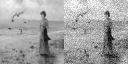
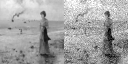
added phash gradient estimation, however is quite janky currently, needs tuning

Changed region(s): [[0.5, 0.0, 1.0, 1.0]]

diff --git a/src/phash_gradient.py b/src/phash_gradient.py
@@ -1,0 +1,223 @@
+import os
+import numpy as np
+from PIL import Image
+import pdqhash
+from image_utils import *
+
+PHASH_THRESHOLD = 35 # Represents hamming distance between PDQ hashes, change later
+NUM_ITERATIONS = 200 # Number of iterations our iterative algorithm works for
+EPS_MAX = 0.26 # Max L_inf allowed
+
+
+def project_linf(delta, eps):
+    """Project delta (HxW) onto L∞ ball with radius eps (elementwise clamp)."""
+    return np.clip(delta, -eps, eps)
+
+def project_l2(delta, eps):
+    """Project delta onto L2 ball of radius eps (global)."""
+    norm = np.linalg.norm(delta.ravel())
+    if norm <= eps or norm == 0:
+        return delta
+    return (delta / norm) * eps
+
+def best_candidate_from_random(x, delta_cum, num_candidates=200, per_pixel_eps=0.01, candidate_type='gauss'):
+    """
+    Generate candidates (small HxW perturbations), test pdq distance increase when added to current,
+    and return the best candidate (largest resulting PDQ distance).
+    - x: base small-grayscale image (HxW floats in [0,1])
+    - delta_cum: current cumulative perturbation (HxW floats, can be nonzero)
+    - returns (best_candidate, best_dist, best_sim, best_qorig, best_qpert)
+    """
+    H, W = x.shape
+    best = None
+    best_dist = -1
+    best_sim = None
+
+    base_perturbed = np.clip(x + delta_cum, 0.0, 1.0)  # current perturbed small image
+
+    for i in range(num_candidates):
+        if candidate_type == 'gauss':
+            cand = np.random.normal(0, per_pixel_eps, size=(H, W)).astype(np.float32)
+        elif candidate_type == 'signed':
+            cand = (np.random.choice([-1.0, 1.0], size=(H, W)) *
+                    np.random.rand(H, W) * per_pixel_eps).astype(np.float32)
+        elif candidate_type == 'sparse':
+            # small fraction of pixels changed
+            cand = np.zeros((H, W), dtype=np.float32)
+            mask = np.random.rand(H, W) < 0.01  # 1% pixels
+            cand[mask] = np.random.normal(0, per_pixel_eps, size=np.count_nonzero(mask))
+        else:
+            raise ValueError("unknown candidate_type")
+
+        # create trial cumulative perturbation and limit it (so candidates don't exceed global budget by themselves)
+        trial_delta = delta_cum + cand
+        trial_delta = project_linf(trial_delta, per_pixel_eps*5)  # optionally cap intermediate values
+        trial_delta = project_l2(trial_delta, per_pixel_eps*5)  # optionally cap intermediate values
+
+        # compute pdq distance between base_perturbed and base_perturbed + cand
+        # note: phash_distance_gray expects delta that when added to x produces perturbed image;
+        # here we want distance between (x + delta_cum) and (x + delta_cum + cand),
+        # so pass base_perturbed as reference by computing delta_rel = (delta_cum + cand) - delta_cum = cand
+        dist, sim = phash_distance_gray(base_perturbed, cand)
+
+        # choose the candidate that produced the largest PDQ distance
+        if dist > best_dist:
+            best_dist = dist
+            best = cand
+            best_sim = sim
+
+    return best, best_dist, best_sim
+def iterative_greedy_attack(orig_rgb, x_small, its=50, M=200, eps_step=0.005, eps_max=0.05, candidate_type='gauss', threshold=20):
+    """
+    Iteratively find and accumulate greedy perturbations in small grayscale space.
+    - orig_rgb: original full-res RGB float HxWx3
+    - x_small: small grayscale image Hs x Ws (float)
+    - its: number of iterations
+    - M: number of candidates per iteration
+    - eps_step: nominal candidate std/step (per-pixel)
+    - eps_max: max L_inf allowed for cumulative bar_delta
+    Returns cumulative bar_delta and history of PDQ distances.
+    """
+    Hs, Ws = x_small.shape
+    bar_delta = np.zeros_like(x_small, dtype=np.float32)  # cumulative small-space perturbation
+    history = []
+
+    # initial PDQ between x and x (should be 0)
+    dist0, sim0 = phash_distance_gray(x_small, np.zeros_like(x_small))
+    history.append((0, dist0, sim0))
+
+    for t in range(its):
+        # generate many small candidates and pick the one that increases PDQ most
+        best_cand, best_dist, best_sim = best_candidate_from_random(
+            x_small, bar_delta, num_candidates=M, per_pixel_eps=eps_step, candidate_type=candidate_type
+        )
+
+        # update cumulative perturbation (add best candidate)
+        bar_delta = bar_delta + best_cand
+
+        # project cumulative perturbation onto allowed L_inf ball so it stays imperceptible
+        bar_delta = project_linf(bar_delta, eps_max)
+
+        #l2_max = 0.3
+        # optionally also project L2 if you want:
+        #bar_delta = project_l2(bar_delta, l2_max)
+
+        # compute pdq distance between x and x + bar_delta (for logging)
+        dist_cum, sim_cum = phash_distance_gray(x_small, bar_delta)
+        history.append((t+1, dist_cum, sim_cum))
+
+        # debug/log
+        print(f"iter {t+1:3d}: best_candidate_dist={best_dist:3d} => cum_dist={dist_cum:3d} PDQsim={sim_cum:.3f}")
+
+        # stopping rule: if we exceed some PDQ distance threshold, break
+        if dist_cum >= threshold:   # example threshold, tune to your use-case
+            #print("Reached PDQ distance target; stopping early.")
+            break
+
+    # Produce final mapped RGB perturbation to apply to the original image
+    W_orig, H_orig = orig_rgb.shape[1], orig_rgb.shape[0]
+    delta_gray_resized = resize_float_delta(bar_delta, (W_orig, H_orig))
+    delta_rgb = inverse_delta_map(orig_rgb, delta_gray_resized)
+    perturbed_rgb = np.clip(orig_rgb + delta_rgb, 0.0, 1.0)
+
+    return bar_delta, delta_rgb, perturbed_rgb, history
+
+def process_image(path):
+    """
+    Modified process_image that runs the iterative greedy attack on the image at `path`.
+    Saves:
+      - images_out/{name}__orig_fullRGB.png          : original full-res RGB (for reference)
+      - images_out/{name}__pert_resized_RGB.png      : final perturbed full-res RGB (mapped from small attack)
+      - images_out/{name}__pert_smallstack.png       : side-by-side small grayscale original vs small perturbed
+      - images_out/{name}__bar_delta_small.png       : visualization of cumulative bar_delta (scaled for viewing)
+    Prints PDQ and metrics to console.
+    """
+    name = os.path.basename(path)
+    base, ext = os.path.splitext(name)
+    orig = Image.open(path).convert("RGB")
+    orig_size = orig.size  # (W, H)
+    orig_rgb = to_float(orig)  # HxWx3 floats
+
+    # small grayscale attack space
+    small_gray = orig.convert("L").resize(RESIZE_TO)
+    x = to_float(small_gray)  # Hs x Ws
+
+    # Attack configuration (tune these)
+    # Run iterative greedy attack
+    bar_delta, delta_rgb, perturbed_rgb, history = iterative_greedy_attack(
+        orig_rgb, x,
+        its=NUM_ITERATIONS,
+        M=200,
+        eps_step=0.005,
+        eps_max=EPS_MAX,
+        candidate_type='gauss',
+        threshold=PHASH_THRESHOLD
+    )
+
+    # Save outputs with clear filenames
+    os.makedirs(OUTPUT_DIR, exist_ok=True)
+    # original full-res (for quick reference)
+    orig_out = os.path.join(OUTPUT_DIR, f"{base}__orig_fullRGB.png")
+    Image.fromarray(to_uint8(orig_rgb)).save(orig_out)
+
+    # perturbed full-res RGB (mapped from bar_delta)
+    pert_resized_out = os.path.join(OUTPUT_DIR, f"{base}__pert_resized_RGB.png")
+    Image.fromarray(to_uint8(perturbed_rgb)).save(pert_resized_out)
+
+    # small stacked: original small grayscale vs (x + bar_delta) small grayscale
+    x_pert_small = np.clip(x + bar_delta, 0.0, 1.0)
+    stacked_small = np.hstack([x, x_pert_small])
+    stacked_small_u8 = to_uint8(stacked_small)
+    stacked_small_img = Image.fromarray(stacked_small_u8, mode="L")
+    stacked_small_out = os.path.join(OUTPUT_DIR, f"{base}__pert_smallstack.png")
+    stacked_small_img.save(stacked_small_out)
+
+    # save a visualization of bar_delta (scale to [0,1] for viewing)
+    # We'll map bar_delta (which can be negative) to a viewable grayscale: (bar_delta - min) / (max - min)
+    bd = bar_delta
+    bd_min, bd_max = float(np.min(bd)), float(np.max(bd))
+    if bd_max - bd_min < 1e-8:
+        bd_vis = np.zeros_like(bd)
+    else:
+        bd_vis = (bd - bd_min) / (bd_max - bd_min)
+    bd_vis_u8 = to_uint8(bd_vis)
+    bd_img = Image.fromarray(bd_vis_u8, mode="L")
+    bd_out = os.path.join(OUTPUT_DIR, f"{base}__bar_delta_small.png")
+    bd_img.save(bd_out)
+
+    # PDQ final reporting between small x and small x+bar_delta
+    dist_cum, sim_cum = phash_distance_gray(x, bar_delta)
+    dist_full, sim_full = phash_distance_rgb(
+            orig_rgb, perturbed_rgb)
+
+    # Save naming summary (printed)
+    print(f"\nProcessed {name}")
+    print(f"Outputs saved to {OUTPUT_DIR}:")
+    print(f"  original full-res     : {orig_out}")
+    print(f"  perturbed full-res    : {pert_resized_out}")
+    print(f"  small stacked (L/R)   : {stacked_small_out}")
+    print(f"  bar_delta visualization: {bd_out}")
+    print(f"Phash final (small): Phashdist={int(dist_cum)} Phashsim={sim_cum:.3f} ")
+    print(f"Phash final (original): Phashdist={int(dist_full)} Phashsim={sim_full:.3f}")
+    print(f"  Final L2 per pixel for original: {l2_per_pixel_rgb(perturbed_rgb - orig_rgb)}")
+    # Optionally return paths & history
+    return {
+        "orig": orig_out,
+        "pert_resized": pert_resized_out,
+        "smallstack": stacked_small_out,
+        "bar_delta_vis": bd_out,
+        "history": history
+    }
+
+def main():
+    imgs = [f for f in os.listdir(INPUT_DIR)
+            if f.lower().endswith(('.jpg', '.jpeg'))]
+    if not imgs:
+        print("No JPEG files found in", INPUT_DIR)
+        return
+
+    for fname in imgs:
+        process_image(os.path.join(INPUT_DIR, fname))
+
+if __name__ == "__main__":
+    main()

diff --git a/src/image_utils.py b/src/image_utils.py
@@ -1,7 +1,7 @@
 import os
 import numpy as np
 from PIL import Image
-import pdqhash
+import pdqhash, imagehash
 
 # === CONFIGURATION ===
 INPUT_DIR = "images_in"
@@ -74,6 +74,33 @@ def pdq_hamming_distance(hashes_a, hashes_b):
                 if best == 0:
                     return 0
     return best
+
+def phash_distance_gray(x_float, delta_float):
+    x_pert = np.clip(x_float + delta_float, 0.0, 1.0)
+
+    x_rgb_u8 = _ensure_rgb_uint8(to_uint8(x_float))
+    xpert_rgb_u8 = _ensure_rgb_uint8(to_uint8(x_pert))
+
+    h_x = imagehash.phash(Image.fromarray(x_rgb_u8))
+    h_pert = imagehash.phash(Image.fromarray(xpert_rgb_u8))
+    dist = int(np.abs(h_pert - h_x))   # ImageHash implements Hamming distance via subtraction
+    nbits = h_x.hash.size
+    sim = 1.0 - (dist / float(nbits))
+    return dist, sim
+
+def phash_distance_rgb(a_float, b_float):
+    img_a = _ensure_rgb_uint8(to_uint8(a_float))
+    img_b = _ensure_rgb_uint8(to_uint8(b_float))
+
+    h_a = imagehash.phash(Image.fromarray(img_a))
+    h_b = imagehash.phash(Image.fromarray(img_b))
+
+    dist = int(np.abs(h_b - h_a))
+    nbits = h_a.hash.size
+
+    sim = 1.0 - (dist / float(nbits))
+    return dist, sim
+
 
 def pdq_distance_gray(x_float, delta_float):
     """
